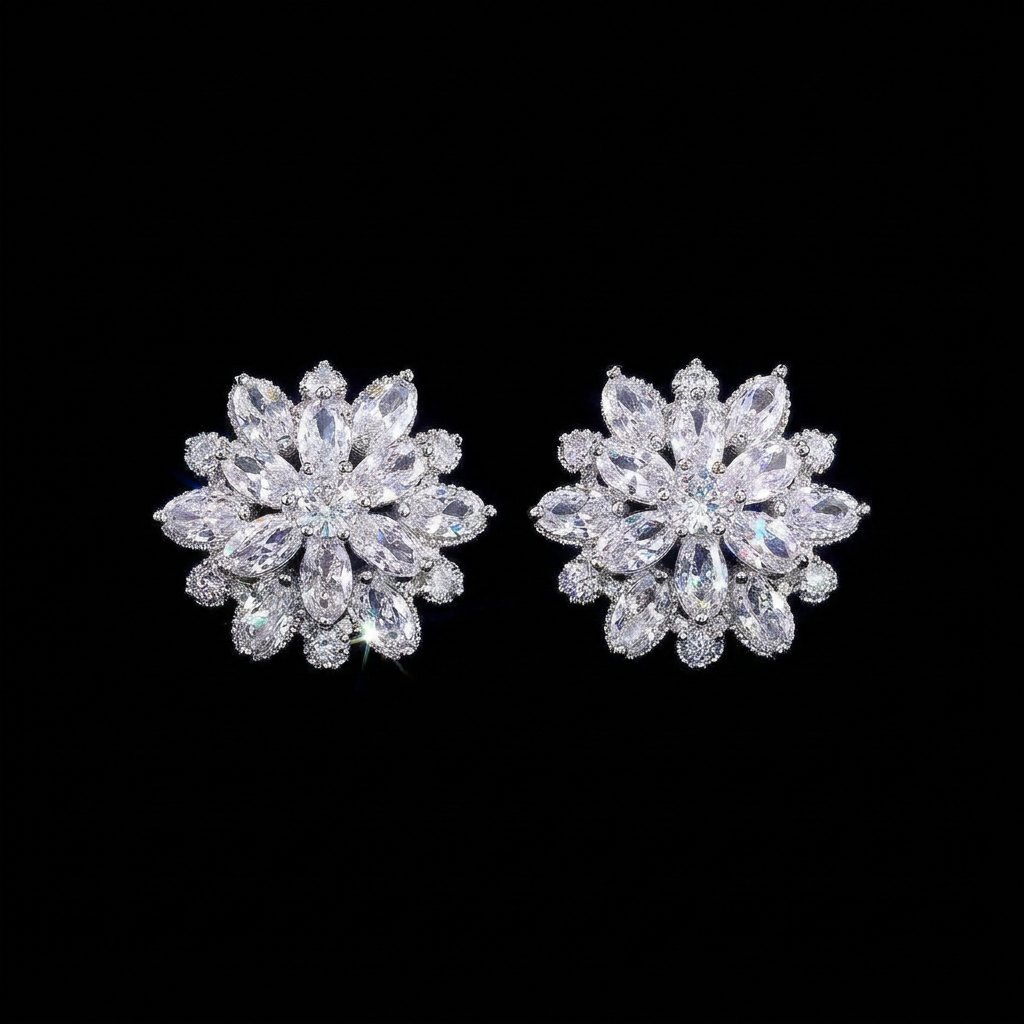
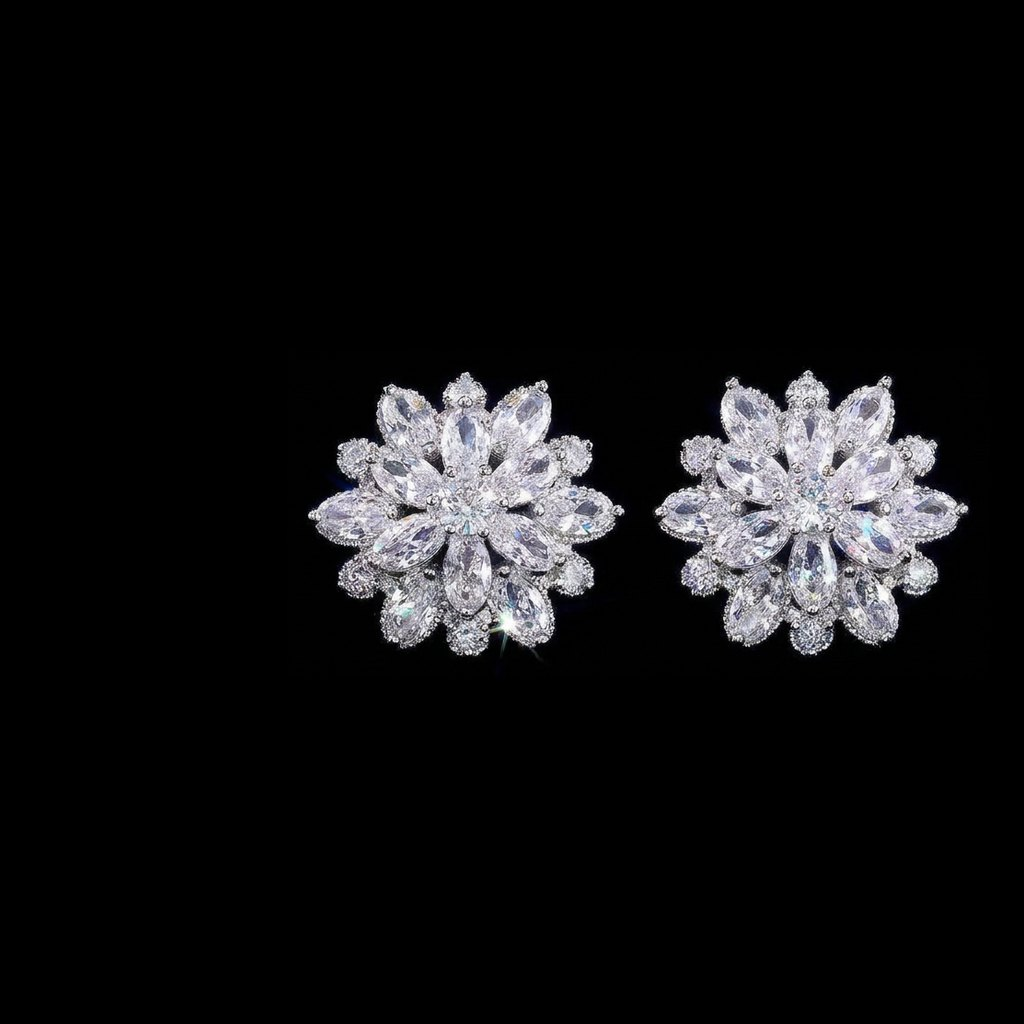
Highlights on the main product photo
- Icon + text column on the first photo (16 mm wide, 4.3 g a pair,
  925 silver posts, cubic zirconia), editable in config.js
- Gallery version of the main photo has the earrings moved right to make room;
  tapping it opens the centred original (new optional images[].zoom)
- New icons: diameter, hallmark

Changed region(s): [[0.1562, 0.3438, 0.9375, 0.6562]]

diff --git a/config.js b/config.js
@@ -248,9 +248,10 @@ window.RAVENS_CONFIG = {
     shortDescription: "A snow-white flower of sparkling cubic zirconia on 925 silver posts. Made to catch the light, day or night.",  // 1–2 sentences under the name
 
     // Product photos. First one = main image. Recommended: 1600 × 1600 px, square, JPG/WebP, < 300 KB.
+    // Optional "zoom": a different file to show when the photo is tapped open (e.g. without room for highlights).
     // Replace the placeholder files in /images and update the file names here.
     images: [
-      { src: "images/product-1.jpg", alt: "A pair of flower-shaped stud earrings set with clear sparkling stones, on a black background" },
+      { src: "images/product-1.jpg", zoom: "images/product-1-full.jpg", alt: "A pair of flower-shaped stud earrings set with clear sparkling stones, on a black background" },
       { src: "images/product-2.jpg", alt: "Woman with long blonde hair wearing the flower stud earring, seen from the side" },
       { src: "images/product-3.jpg", alt: "Woman with dark hair wearing the flower stud earring, seen from the side" },
       { src: "images/product-4.jpg", alt: "The flower stud earrings in an open black jewelry box" },
@@ -263,6 +264,16 @@ window.RAVENS_CONFIG = {
     // stored in the link, not the price shown on this site:
     //   stripeLinkSale    → a Payment Link that charges price.sale    (used while the sale runs)
     //   stripeLinkRegular → a Payment Link that charges price.regular (used after the sale ends)
+    // Highlights shown ON the first product photo (a column on the left, icon + text).
+    // Icons: diameter, feather, hallmark, gem, sparkle, globe, gift, shield, lock, truck, return, mail, check.
+    // Only state what is true. Leave the list empty [] to show the photo without highlights.
+    photoHighlights: [
+      { icon: "diameter", text: "16 mm wide" },
+      { icon: "feather",  text: "Only 4.3 g a pair" },
+      { icon: "hallmark", text: "925 silver posts" },
+      { icon: "gem",      text: "Cubic zirconia" }
+    ],
+
     // One option for now (all photos show the clear "silver" stones), so the selector is hidden.
     // To offer more colours later, copy the block, give it its own id/name and photos.
     variantLabel: "Stone colour",
@@ -283,15 +294,15 @@ window.RAVENS_CONFIG = {
       eyebrow: "The story",
       title: "Chosen, not churned out",
       paragraphs: [
-        "We didn’t want to sell another piece of jewelry you forget in a drawer. So before Snowbloom, we said no to a lot of others: pieces that looked good in photos but felt cheap in the hand, posts that irritated the ear, stones that went dull.",
-        "Snowbloom made the cut. Cubic zirconia set in a flower that catches every bit of light, on 925 sterling silver posts that are gentle on the ear, and light enough (about 4.3 g for the pair) to forget you’re wearing them."
+        "We didn’t want to make another piece of jewelry you forget in a drawer. So before Snowbloom, we threw out a lot of drafts: designs that looked good on screen but felt cheap in the hand, posts that irritated the ear, stones that lost their sparkle.",
+        "Snowbloom is what survived. We shaped the flower so its cubic zirconia catches every bit of light. We chose 925 sterling silver posts because they’re gentle on the ear. And we kept the pair light, about 4.3 g, so you forget you’re wearing them."
       ],
-      closing: "Ravens have always collected what glitters. We just got pickier about it."   // shown as a closing line in the italic serif ("" hides it)
+      closing: "Ravens have always collected what glitters."   // shown as a closing line in the italic serif ("" hides it)
     },
 
     // 3–4 highlights. Icons: gem, feather, shield, sparkle, gift, moon, heart, globe, lock, truck, return, mail
     features: [
-      { icon: "gem",     title: "A flower of light",    text: "Cubic zirconia stones set in a flower that catches every bit of light." },
+      { icon: "gem",     title: "A flower of light",    text: "Cubic zirconia stones set in a 16 mm flower that catches every bit of light." },
       { icon: "feather", title: "Light as a feather",   text: "About 4.3 g for the pair, so you can wear them all night." },
       { icon: "moon",    title: "Made for after dark",  text: "Gothic elegance that works with black lace as well as a plain tee, day or night." },
       { icon: "shield",  title: "925 silver posts",     text: "The part that goes through your ear is 925 sterling silver." }
@@ -320,7 +331,7 @@ window.RAVENS_CONFIG = {
     details: {
       material: "925 sterling silver posts",  // the flower setting: add its metal once the supplier confirms it in writing
       stone: "Cubic zirconia (lab-created)",
-      dimensions: "",                        // TODO_DIMENSIONS: flower diameter, e.g. "Flower 25 mm across" (row stays hidden while empty)
+      dimensions: "Flower 16 mm across",
       weight: "About 4.3 g per pair",        // from the supplier listing: weigh your own sample to confirm
       care: [
         "Take it off before showering, swimming or exercising.",

diff --git a/js/product.js b/js/product.js
@@ -115,7 +115,9 @@
     const prev = $('.gallery__nav--prev', gallery);
     const next = $('.gallery__nav--next', gallery);
     const n = images.length;
-    const lightboxItems = images.map((im) => ({ src: im.src, alt: im.alt }));
+    // Tapping a photo opens its "zoom" version when there is one (e.g. the main photo without room for highlights)
+    const lightboxItems = images.map((im) => ({ src: hasValue(im.zoom) ? im.zoom : im.src, alt: im.alt }));
+    const highlights = (P.photoHighlights || []).filter((x) => x && hasValue(x.text));
 
     images.forEach((im, i) => {
       track.append(
@@ -125,7 +127,15 @@
               src: im.src, alt: im.alt || '', width: 1200, height: 1200, draggable: 'false', decoding: 'async',
               loading: i === 0 ? 'eager' : 'lazy', fetchpriority: i === 0 ? 'high' : null
             }),
-            h('span', { class: 'visually-hidden' }, ` (${L.enlarge})`)))
+            h('span', { class: 'visually-hidden' }, ` (${L.enlarge})`)),
+          // Highlights on the first photo: icon + short text, in a column on the left
+          i === 0 && highlights.length
+            ? h('ul', { class: 'photo-highlights', 'aria-label': 'Highlights' },
+                highlights.map((x) => h('li', { class: 'photo-highlights__item' },
+                  h('span', { class: 'photo-highlights__icon' }, icon(x.icon, 24)),
+                  // keep numbers and units together on one line ("4.3 g", "16 mm")
+                  h('span', { class: 'photo-highlights__text' }, tpl(x.text).replace(/(\d)\s+(mm|cm|g)\b/gi, '$1 $2')))))
+            : null)
       );
       if (n > 1) {
         thumbs.append(

diff --git a/css/styles.css b/css/styles.css
@@ -545,6 +545,41 @@ h1, h2, h3 {
   user-select: none;
 }
 .gallery__zoom:focus-visible { outline-offset: -4px; }
+/* Highlights on the first product photo: icon + text in a column on the left.
+   Sizes are relative to the photo width (cqw), so they scale with it on every screen. */
+.gallery__slide { position: relative; container-type: inline-size; }
+.photo-highlights {
+  position: absolute;
+  top: 46%;
+  left: 4%;
+  display: grid;
+  gap: 3.4cqw;
+  width: 20cqw;
+  margin: 0;
+  padding: 0;
+  list-style: none;
+  color: #fff;
+  text-align: center;
+  pointer-events: none;
+  transform: translateY(-50%);
+}
+.photo-highlights__item { display: grid; justify-items: center; gap: 1.3cqw; }
+/* very small phones: tighter column so it clears the "Tap to enlarge" label */
+@container (max-width: 300px) {
+  .photo-highlights { top: 44%; gap: 2cqw; }
+}
+.photo-highlights__icon { display: grid; place-items: center; }
+.photo-highlights__icon .icon { width: clamp(20px, 7cqw, 40px); height: clamp(20px, 7cqw, 40px); stroke-width: 1.4; }
+.photo-highlights__text {
+  font-size: clamp(9px, 2.6cqw, 13px);
+  font-weight: 700;
+  line-height: 1.2;
+  letter-spacing: 0.07em;
+  text-transform: uppercase;
+  text-shadow: 0 1px 6px rgba(0, 0, 0, 0.8);
+  text-wrap: balance;
+}
+
 .gallery__nav {
   position: absolute;
   top: 50%;

diff --git a/js/site.js b/js/site.js
@@ -252,7 +252,9 @@
     'chevron-left': '<path d="m15 5-7 7 7 7"/>',
     'chevron-right': '<path d="m9 5 7 7-7 7"/>',
     'arrow-left': '<path d="M19 12H5M11 6l-6 6 6 6"/>',
-    zoom: '<circle cx="11" cy="11" r="6.5"/><path d="m20 20-4.2-4.2M11 8.5v5M8.5 11h5"/>'
+    zoom: '<circle cx="11" cy="11" r="6.5"/><path d="m20 20-4.2-4.2M11 8.5v5M8.5 11h5"/>',
+    diameter: '<circle cx="12" cy="12" r="9"/><path d="M6.5 12h11M8.7 9.8 6.5 12l2.2 2.2M15.3 9.8l2.2 2.2-2.2 2.2"/>',
+    hallmark: '<circle cx="12" cy="12" r="9.5"/><text x="12" y="14.4" text-anchor="middle" font-size="6.6" font-weight="700" font-family="Inter, system-ui, sans-serif" fill="currentColor" stroke="none" letter-spacing="0.2">925</text>'
   };
   const STAR = '<path d="M12 2.6l2.9 5.9 6.5.9-4.7 4.6 1.1 6.5L12 17.4l-5.8 3.1 1.1-6.5L2.6 9.4l6.5-.9z"/>';
   const SVG_NS = 'http://www.w3.org/2000/svg';

diff --git a/README.md b/README.md
@@ -228,7 +228,8 @@ announcements: [
 ### Product, variants, photos (both modes)
 
 - `product.name`, `shortDescription`, `sku`, `details` (material, stone, dimensions, weight, care, allergy note) and `safety` (EU GPSR product-safety info: manufacturer, warnings).
-- `product.images`: list of `{ src, alt }`. The first entry is the main image. `alt` describes the photo for blind visitors and Google.
+- `product.images`: list of `{ src, alt }`. The first entry is the main image. `alt` describes the photo for blind visitors and Google. Optional `zoom`: a different file shown when the photo is tapped open (the main photo uses this: the gallery version has the earrings moved right to make room for the highlights, the enlarged view shows the centred original).
+- `product.photoHighlights`: the icon + text column on the first photo ("16 MM WIDE", "ONLY 4.3 G A PAIR", …). Only state what is true; `[]` removes the column.
 - `product.variants`: one entry per option (for example Silver / Black). With only one variant, the selector is hidden. `image: 1` makes the gallery jump to photo 2 when that variant is selected. `soldOut: true` shows the option greyed out. Each variant needs **two Stripe links** (see section 8).
 - `product.story`, `product.features` (3–4 highlights; icons: `gem, feather, shield, sparkle, gift, moon, heart, globe, lock, truck, return, mail, check`) and `product.lifestyle.photos`: photos only (no captions), shown as **one row** that visitors swipe on phones or scroll with arrows on desktop. 4–8 photos look best; tapping one opens it large.
 - Any section whose content is empty is hidden automatically.
